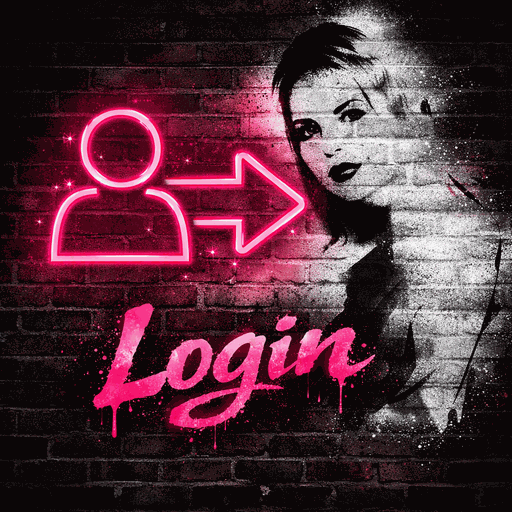
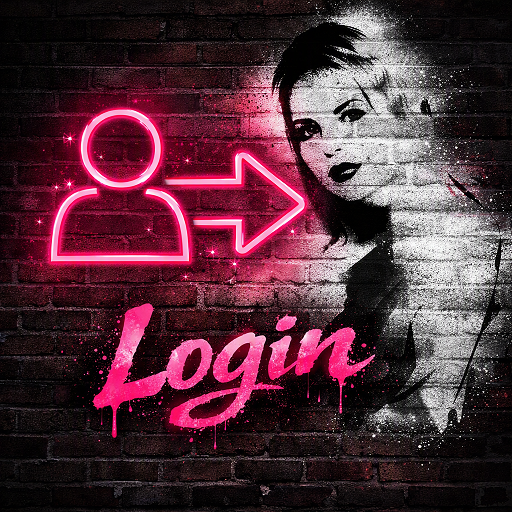
sync: integrate upstream fixes from 8c88dac4..b61b1185
- basics.py: execute Container.SetViewMode with sleep delay after endOfDirectory (#1992, 06c45b66)
- familypornhd.py: add kt_player iframe check in Playvid (#1993, 3782f6b0)
- images: update 11 optimized menu PNG icons (b61b1185)
- tests: add unit tests for basics.eod viewmode behavior
- docs: update UPSTREAM_SYNC.md and UPSTREAM_TRIAGE.md tracking

diff --git a/tests/test_basics.py b/tests/test_basics.py
@@ -717,3 +717,39 @@ class TestSearchDir:
         # Should have been called (with sorted keywords)
         assert mock_addDir.call_count >= 3
         mock_eod.assert_called_once()
+
+
+class TestEod:
+    """Test eod() function"""
+
+    def test_eod_default(self):
+        from resources.lib import basics
+        import xbmc
+        import xbmcplugin
+
+        with patch.object(basics.addon, "getSetting", return_value="false"):
+            with patch.object(xbmcplugin, "endOfDirectory") as mock_end:
+                with patch.object(xbmc, "executebuiltin") as mock_exec:
+                    basics.eod(handle=123, cache=True)
+                    mock_end.assert_called_once_with(123, cacheToDisc=True)
+                    mock_exec.assert_not_called()
+
+    def test_eod_customview(self):
+        from resources.lib import basics
+        import xbmc
+        import xbmcplugin
+
+        with patch.object(
+            basics.addon,
+            "getSetting",
+            side_effect=lambda k: "true" if k == "customview" else "",
+        ):
+            with patch.object(xbmc, "getSkinDir", return_value="skin.estuary"):
+                with patch.object(xbmcplugin, "endOfDirectory") as mock_end:
+                    with patch.object(xbmc, "sleep") as mock_sleep:
+                        with patch.object(xbmc, "executebuiltin") as mock_exec:
+                            basics.eod(handle=123, cache=False)
+                            mock_end.assert_called_once_with(123, cacheToDisc=False)
+                            mock_sleep.assert_called_once_with(100)
+                            mock_exec.assert_called_once_with("Container.SetViewMode(55)")
+

diff --git a/plugin.video.cumination/resources/lib/sites/familypornhd.py b/plugin.video.cumination/resources/lib/sites/familypornhd.py
@@ -248,12 +248,16 @@ def Playvid(url, name, download=None):
             except (ValueError, KeyError, TypeError) as e:
                 utils.kodilog("@@@@Cumination: familypornhd: player index resolver failed: {}".format(e))
         else:
-            host = iframeurl.rsplit("/", 1)[0]
-            url1 = host + "/data.php?filecode=" + hash
-            html = utils.getHtml(url1, iframeurl)
-            try:
-                jsondata = json.loads(html)
-                videourl = jsondata["streaming_url"]
-                vp.play_from_direct_link(videourl)
-            except (ValueError, KeyError, TypeError) as e:
-                utils.kodilog("@@@@Cumination: familypornhd: data.php resolver failed: {}".format(e))
+            iframehtml = utils.getHtml(iframeurl, url)
+            if "kt_player.swf" in iframehtml:
+                vp.play_from_kt_player(iframehtml)
+            else:
+                host = iframeurl.rsplit("/", 1)[0]
+                url1 = host + "/data.php?filecode=" + hash
+                html = utils.getHtml(url1, iframeurl)
+                try:
+                    jsondata = json.loads(html)
+                    videourl = jsondata["streaming_url"]
+                    vp.play_from_direct_link(videourl)
+                except (ValueError, KeyError, TypeError) as e:
+                    utils.kodilog("@@@@Cumination: familypornhd: data.php resolver failed: {}".format(e))

diff --git a/plugin.video.cumination/resources/lib/basics.py b/plugin.video.cumination/resources/lib/basics.py
@@ -79,6 +79,7 @@ def cum_image(filename, custom=False):
 def eod(handle=addon_handle, cache=True):
     kodi_xbmc = sys.modules.get("xbmc", xbmc)
     kodi_xbmcplugin = sys.modules.get("xbmcplugin", xbmcplugin)
+    viewtype = None
     if addon.getSetting("customview") == "true":
         skin = kodi_xbmc.getSkinDir().lower()
         viewtype = 55 if "estuary" in skin else 50
@@ -87,8 +88,10 @@ def eod(handle=addon_handle, cache=True):
             currentskin, viewno = setview.split(";")
             if currentskin == skin:
                 viewtype = viewno
-        kodi_xbmc.executebuiltin("Container.SetViewMode(%s)" % str(viewtype))
     kodi_xbmcplugin.endOfDirectory(handle, cacheToDisc=cache)
+    if viewtype is not None:
+        kodi_xbmc.sleep(100)
+        kodi_xbmc.executebuiltin("Container.SetViewMode(%s)" % str(viewtype))
 
 
 def addImgLink(name, url, mode):

diff --git a/docs/development/UPSTREAM_SYNC.md b/docs/development/UPSTREAM_SYNC.md
@@ -1,8 +1,8 @@
 # Upstream Sync Tracking
 
 **Purpose**: Track which commits from upstream (dobbelina/repository.dobbelina) have been integrated into this fork.
-**Last Updated**: 2026-09-19
-**Last Sync**: 2026-09-19 - Reviewed upstream through 8c88dac4; ported erogarga thumbnail en-dash sanitization and User-Agent options to BeautifulSoup scraper and utils.videos_list.
+**Last Updated**: 2026-09-26
+**Last Sync**: 2026-09-26 - Reviewed upstream through b61b1185; ported basics viewtype fix, familypornhd kt_player iframe check, and 11 optimized menu PNG icons.
 
 ---
 
@@ -18,6 +18,19 @@
 ---
 
 ## Sync Sessions
+
+### 2026-09-26 Porting Session
+Reviewed pending upstream commits merged after `8c88dac4` through `b61b1185` (7 commits) using `sync_manager.py --report` and verified all affected modules.
+
+| Upstream Hash | Message | Fork Hash | Date Integrated | Notes |
+|---------------|---------|-----------|-----------------|-------|
+| `b61b1185` | Image cleanup & optimization | `manual` | 2026-09-26 | **images**: Ported 11 optimized menu PNG images (`cum-favorites.png`, `cum-followed.png`, `cum-login.png`, `cum-logout.png`, `cum-models.png`, `cum-movies.png`, `cum-nophoto.png`, `cum-player.png`, `cum-refresh.png`, `cum-tags.png`, `cum-topcams.png`). |
+| `3782f6b0` (#1993) | familypornhd: fixes #1993 | `manual` | 2026-09-26 | **familypornhd**: Ported `kt_player.swf` iframe check in `Playvid()` fallback. Upstream also added a threaded proxy server for `watchstreamhd.com` `.txt` playlists, but our fork's existing logic already fetches and rewrites relative streams without needing a local HTTP server. Verified with unit tests. |
+| `06c45b66` (#1992) | Fixed: viewtype #1992 | `manual` | 2026-09-26 | **basics**: Ported delay and `Container.SetViewMode` execution after `kodi_xbmcplugin.endOfDirectory` when `customview` is enabled. Added unit tests in `tests/test_basics.py`. |
+| `b32fffcd` | stripchat: player selector | `manual-already-covered` | 2026-09-26 | Our fork's modernized stripchat module already uses InputStream Adaptive (`IA_check="IA"`). |
+| `0a112102` | Cam4: Add niches and categories, minor player fix | `manual-already-covered` | 2026-09-26 | Our fork uses a modernized 374-line direct InputStream Adaptive scraper (`/api/directoryCams`) and direct stream resolution; upstream changes target legacy proxy and GraphQL APIs not used in our fork. |
+| `33f7a013` | Merge PR #1989 | `skipped` | 2026-09-26 | Merge commit. |
+| `2c0b2dc8` | 2026-09-22 Bumped to v.1.1.200 | `skipped` | 2026-09-26 | Version/package bump only. |
 
 ### 2026-09-19 Porting Session
 Reviewed pending upstream commits merged after `5a585018` through `8c88dac4` using `sync_manager.py --report` and verified all affected modules.

diff --git a/docs/development/UPSTREAM_TRIAGE.md b/docs/development/UPSTREAM_TRIAGE.md
@@ -1,6 +1,6 @@
 # Upstream Triage Report
 
-Generated: 2026-09-19
+Generated: 2026-09-26
 Pending commits: 0 (grouped into 0 items)
 
 Run `python scripts/sync_manager.py` (interactive) to review/cherry-pick, or `python scripts/sync_manager.py --report` to regenerate this file.
